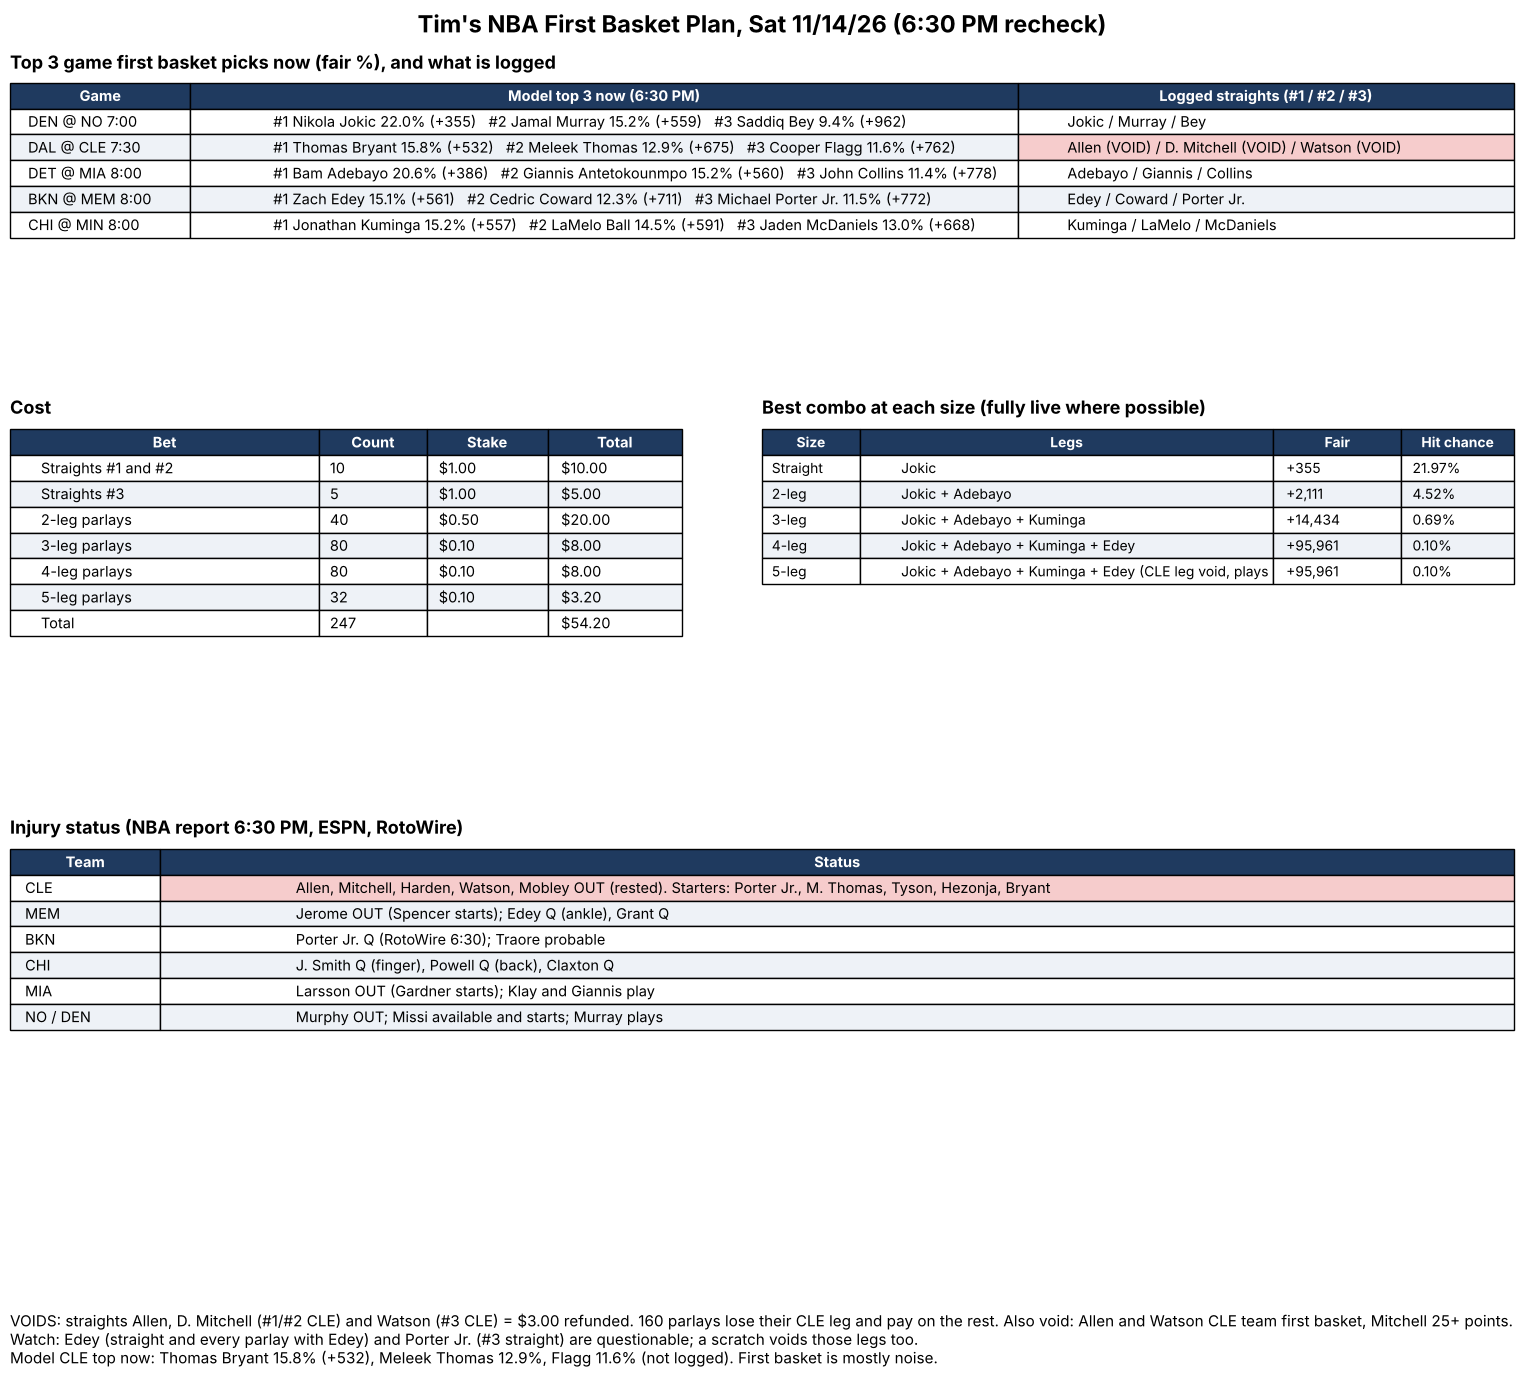
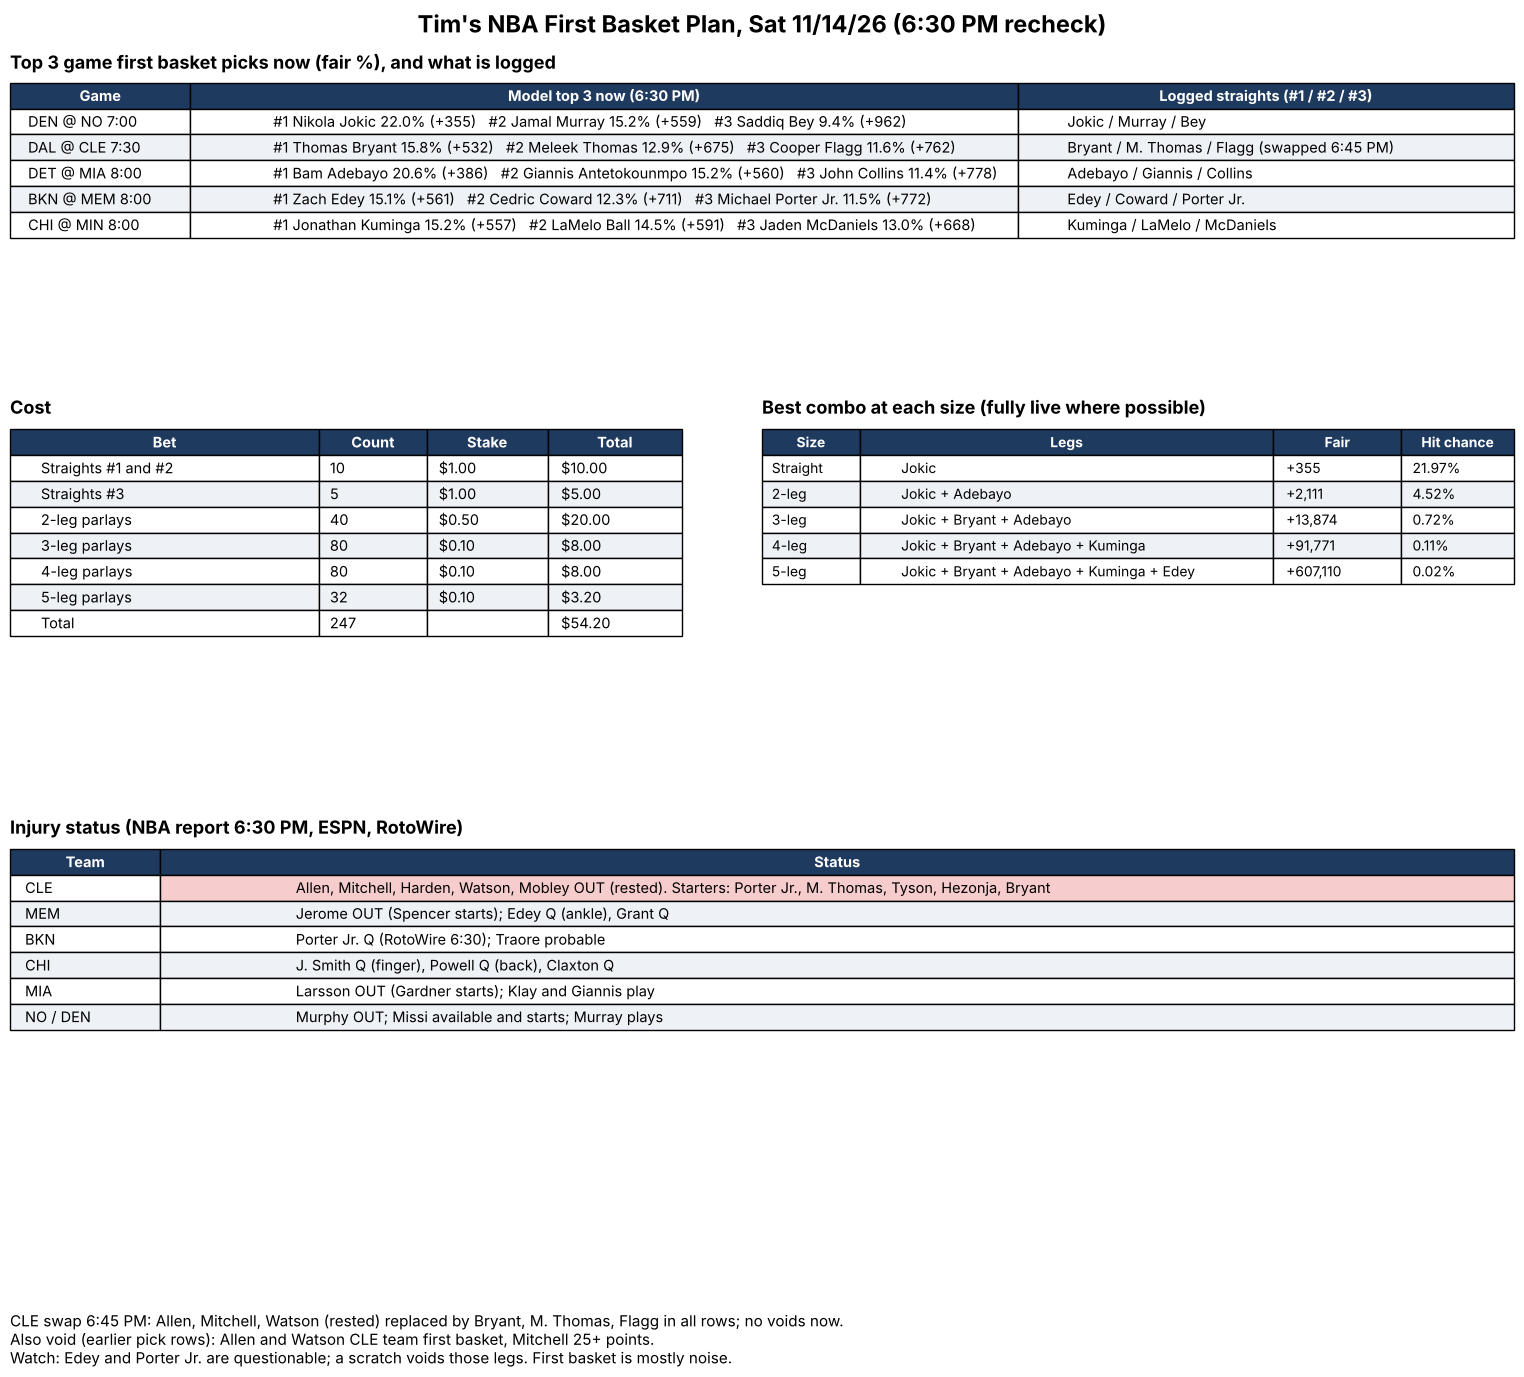
NBA 11/14: CLE swap (Bryant, M. Thomas, Flagg) in Bets E963-E1209, CSV and plan chart
Claude-Session: https://claude.ai/code/session_01TQWUAJSyeczoh1eaRjRwmB

diff --git a/analysis/nba/out/charts/parlays_2026-11-14.py b/analysis/nba/out/charts/parlays_2026-11-14.py
@@ -5,7 +5,7 @@ matplotlib.use('Agg')
 import matplotlib.pyplot as plt
 
 HEAD, G, R, ALT = '#1f3a5f', '#cdebd3', '#f6cccc', '#eef2f7'
-VOID = {'Allen', 'D. Mitchell', 'Watson'}
+VOID = set()
 rows = list(csv.DictReader(open('analysis/nba/out/parlays_2026-11-14.csv')))
 c = [r for r in json.load(open('analysis/nba/out/fb_candidates.json')) if r.get('inj') != 'Out']
 games = [('DEN', 'NO', '7:00'), ('DAL', 'CLE', '7:30'), ('DET', 'MIA', '8:00'), ('BKN', 'MEM', '8:00'), ('CHI', 'MIN', '8:00')]
@@ -29,7 +29,7 @@ def table(ax, title, cols, data, widths, shades=None, fs=10.5):
 
 # 1. top 3 per game now
 data, sh = [], []
-logged = {'DEN @ NO': 'Jokic / Murray / Bey', 'DAL @ CLE': 'Allen (VOID) / D. Mitchell (VOID) / Watson (VOID)',
+logged = {'DEN @ NO': 'Jokic / Murray / Bey', 'DAL @ CLE': 'Bryant / M. Thomas / Flagg (swapped 6:45 PM)',
           'DET @ MIA': 'Adebayo / Giannis / Collins', 'BKN @ MEM': 'Edey / Coward / Porter Jr.', 'CHI @ MIN': 'Kuminga / LaMelo / McDaniels'}
 for a, h, t in games:
     v = sorted([r for r in c if r['tm'] in (a, h)], key=lambda r: -r['p_v2'])[:3]
@@ -80,9 +80,8 @@ table(fig.add_axes([0.03, 0.2, 0.94, 0.23]), "Injury status (NBA report 6:30 PM,
 
 # 5. voids
 nv = sum(1 for r in rows if int(r['legs']) > 1 and set(r['picks'].split(' + ')) & VOID)
-vtxt = (f"VOIDS: straights Allen, D. Mitchell (#1/#2 CLE) and Watson (#3 CLE) = $3.00 refunded. "
-        f"{nv} parlays lose their CLE leg and pay on the rest. Also void: Allen and Watson CLE team first basket, Mitchell 25+ points.\n"
-        "Watch: Edey (straight and every parlay with Edey) and Porter Jr. (#3 straight) are questionable; a scratch voids those legs too.\n"
-        "Model CLE top now: Thomas Bryant 15.8% (+532), Meleek Thomas 12.9%, Flagg 11.6% (not logged). First basket is mostly noise.")
+vtxt = ("CLE swap 6:45 PM: Allen, Mitchell, Watson (rested) replaced by Bryant, M. Thomas, Flagg in all rows; no voids now.\n"
+        "Also void (earlier pick rows): Allen and Watson CLE team first basket, Mitchell 25+ points.\n"
+        "Watch: Edey and Porter Jr. are questionable; a scratch voids those legs. First basket is mostly noise.")
 fig.text(0.03, 0.08, vtxt, fontsize=11, va='bottom', wrap=True)
 plt.savefig('analysis/nba/out/charts/parlays_2026-11-14.png', dpi=100, bbox_inches='tight')

diff --git a/analysis/nba/README.md b/analysis/nba/README.md
@@ -479,6 +479,7 @@ team ignored); top 2 = team first points scorer in the team's two highest team-f
 - 11/14 3:45 PM injury rerun (ESPN, RotoWire, NBA official report 3 PM): Mobley OUT (Jaylon Tyson starts), Ty Jerome OUT (Cam Spencer starts), Murphy OUT; Allen, Mitchell, Harden, Watson, Edey, J. Smith, Powell, Claxton, Grant Q; Christie and Larsson doubtful; Klay, Giannis, Missi, Traore probable. Allen to 20% (+398, take +498), Edey to 15% (+561, take +693, now MEM 1st-shot pick); team rows CLE Allen/Watson, MEM Edey/Coward. Full NBA tab re-pushed with corrected injury cells; tipproj_log gained an injury_flags column.
 - 11/14 Tim's combo set: every cross-game combo of the top 2 game FB picks per game (Jokic/Murray, Allen/D. Mitchell, Adebayo/Giannis, Kuminga/LaMelo, Edey/Coward) logged as Bets rows 963-1204 ("Pick"): 10 straights $1, 40 doubles $0.50, 80 trebles, 80 four-leg, 32 five-leg at $0.10; $49.20 total. List in `out/parlays_2026-11-14.csv`. These break the standing parlay rule (no first basket legs, $0.10-0.20 stakes); logged on Tim's request. Note: a values.append to Bets detected the table at G761:I962 and wrote to G:N; cleared at once and rewritten to A:H with update_values. Do not use append on the Bets tab.
 - 11/14 6:30 PM recheck (NBA report 6:30, ESPN, RotoWire): CLE rested Allen, Mitchell, Harden, Watson (plus Mobley); five Porter Jr., M. Thomas, Tyson, Hezonja, Bryant (Bryant jumps, CLE tip 71%, model CLE top Bryant 15.8% +532). VOID notes on Bets E920, E930, E931, E947, E965, E966, E1206 and the CLE leg of 160 parlays (findReplace regex on E). MPJ newly Q (RotoWire). DEN @ NO unchanged (Missi available). Chart `out/charts/parlays_2026-11-14.png`.
+- 11/14 6:45 PM CLE swap (Tim's final play list `out/play_list_2026-11-14.md`): Bryant replaces Allen (#1), Meleek Thomas replaces D. Mitchell (#2), Flagg replaces Watson (#3 straight). Bets E963-E1209 rewritten with the new legs and fair / take-at prices; VOID notes cleared. `out/parlays_2026-11-14.csv` matches.
 
 ## Tim vs model log (first basket)
 
